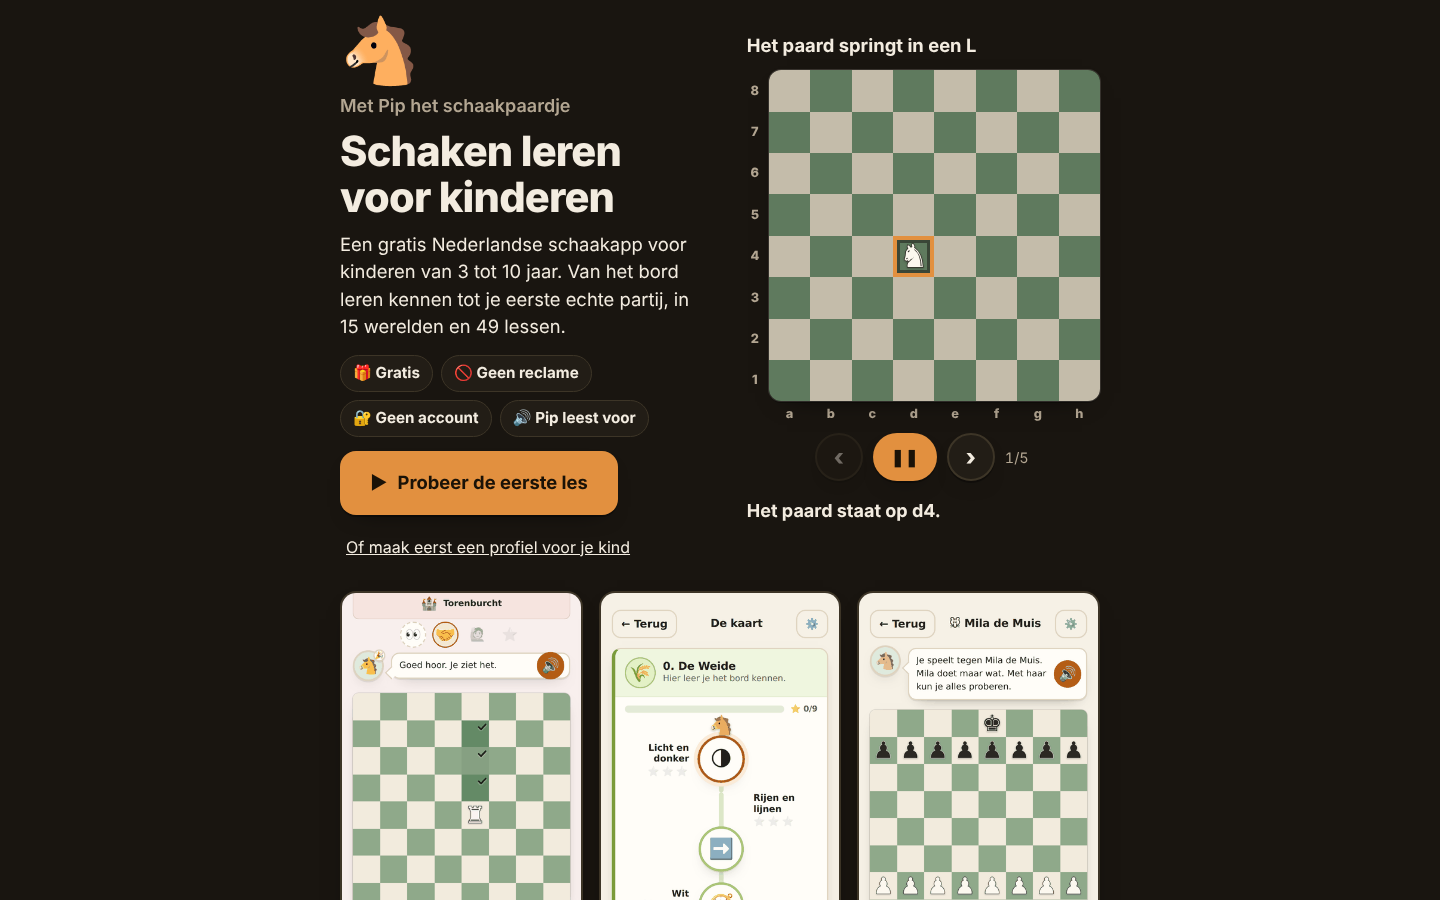
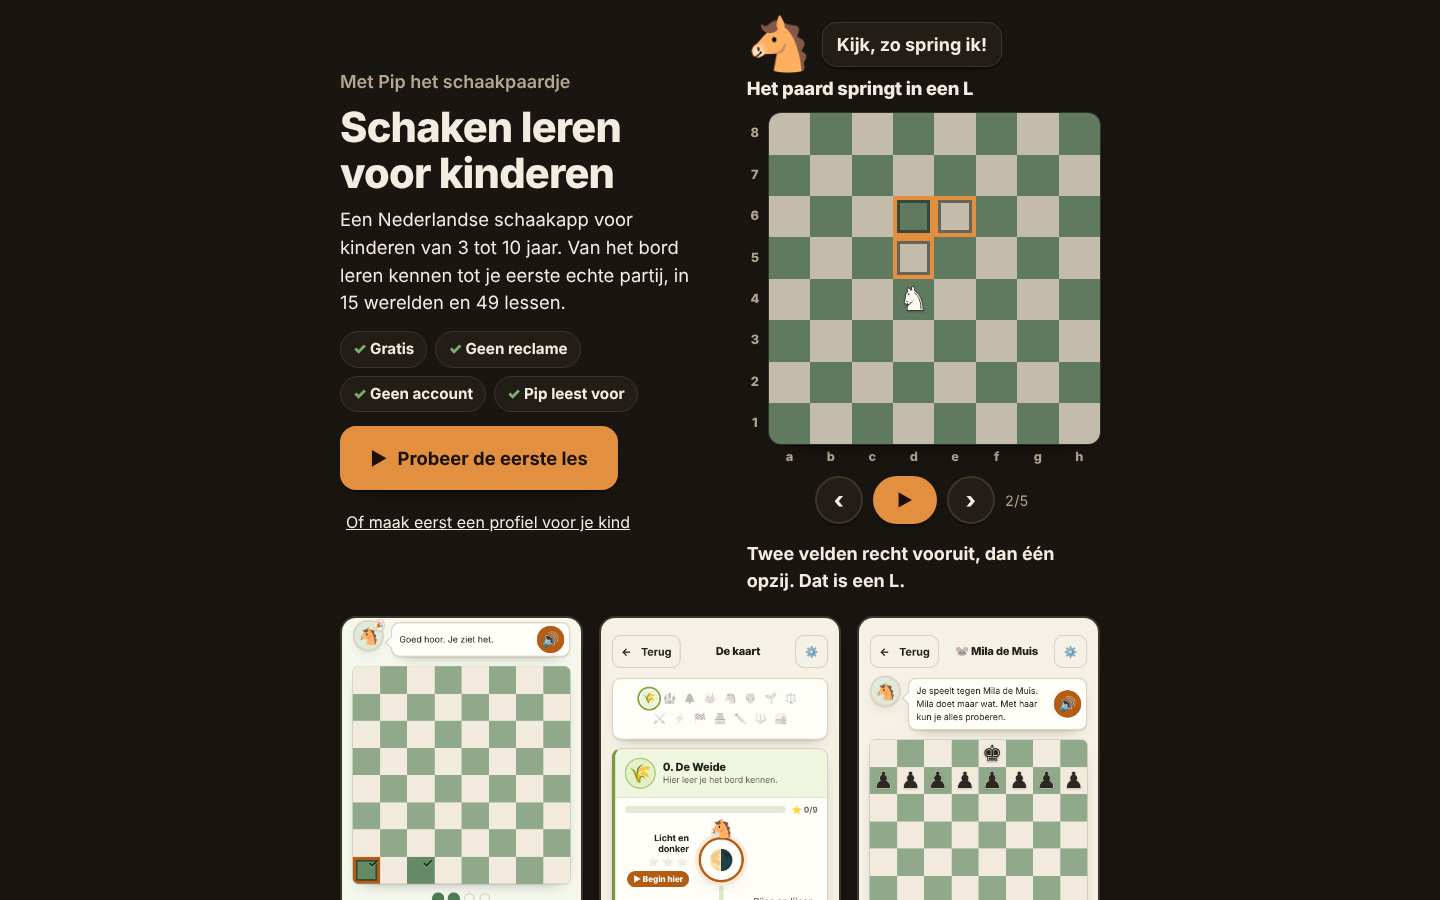
Startpagina na 31e review: bord begint bij de L, Pip spreekt bij het bord, verse schermafbeeldingen
Nieuw scripts/schermen.mjs neemt public/schermen op van de gebouwde app;
og.png en og-vierkant.png opnieuw gemaakt.

Changed region(s): [[0.2188, 0.0, 0.7812, 1.0], [0.2188, 0.0, 0.4688, 0.6222]]

diff --git a/src/app/Welkom.tsx b/src/app/Welkom.tsx
@@ -66,23 +66,25 @@ export function Welkom() {
           de belofte als vier labels in plaats van in een zin onderaan de pagina. */}
       <div className={styles.held}>
       <header className={`stack ${styles.heldTekst}`}>
-        <span aria-hidden="true" className={styles.pip}>
-          🐴
-        </span>
         {/* De kop draagt de zoekterm ("schaken leren voor kinderen"); op "Pip" zoekt
             niemand. clamp, want op een smalle telefoon raakte de kop de rand. */}
         <p className="muted" style={{ margin: 0, fontWeight: 600 }}>Met Pip het schaakpaardje</p>
         <h1 className={styles.kop}>Schaken leren voor kinderen</h1>
         <p style={{ fontSize: '1.15rem', margin: 0, maxWidth: 460 }}>
-          Een gratis Nederlandse schaakapp voor kinderen van 3 tot 10 jaar. Van het bord
+          Een Nederlandse schaakapp voor kinderen van 3 tot 10 jaar. Van het bord
           leren kennen tot je eerste echte partij, in {werelden} werelden en {lessen}{' '}
           lessen.
         </p>
         <ul className={styles.beloftes} aria-label="Wat je krijgt">
-          <li>🎁 Gratis</li>
-          <li>🚫 Geen reclame</li>
-          <li>🔐 Geen account</li>
-          <li>🔊 Pip leest voor</li>
+          {/* Een vinkje in plaats van 🚫 en 🔐: die lazen als "verboden" en "slot". */}
+          {['Gratis', 'Geen reclame', 'Geen account', 'Pip leest voor'].map((b) => (
+            <li key={b}>
+              <span aria-hidden="true" className={styles.vink}>
+                ✓
+              </span>{' '}
+              {b}
+            </li>
+          ))}
         </ul>
         {/* Meteen spelen, zonder formulier. Op 45 bezoeken van de startpagina begonnen
             er 24 aan een les: de weg liep via een sprong van 2500 px naar een formulier
@@ -98,6 +100,14 @@ export function Welkom() {
         </a>
       </header>
       <div className={styles.heldBord}>
+        {/* Pip bij het bord, sprekend: een figuur die je iets leert, niet een los kopje
+            boven de tekst (31e review). */}
+        <p className={styles.heldPip}>
+          <span aria-hidden="true" className={`${styles.heldPipGezicht} ${styles.pip}`}>
+            🐴
+          </span>
+          <span className={styles.heldBallon}>Kijk, zo spring ik!</span>
+        </p>
         <Animatiebord
           id="welkom-paard"
           titel="Het paard springt in een L"
@@ -105,6 +115,7 @@ export function Welkom() {
           beelden={bouwBeelden(paard)}
           kort
           kopNiveau={2}
+          beginStap={1}
         />
       </div>
       </div>
@@ -156,8 +167,8 @@ export function Welkom() {
           Kinderen leren schaken het best met één stuk tegelijk. Daarom begint Schaakmaatje
           bij het bord, en krijgt daarna elk stuk een eigen wereld: eerst de toren en de
           loper, dan de dame, het paard, de koning en de pion. Pas als alle stukken zitten,
-          komen schaak, mat en rokade. Het paard dat bovenaan springt, krijgt zijn
-          eigen wereld.
+          komen schaak, mat en rokade. Ook het paard dat bovenaan springt, krijgt zijn
+          eigen wereld, na de dame.
         </p>
         <p style={{ margin: 0 }}>
           Alle schaakregels staan zo op een bewegend bord, om zelf even op te frissen of

diff --git a/src/uitleg/Animatiebord.tsx b/src/uitleg/Animatiebord.tsx
@@ -34,6 +34,7 @@ export function Animatiebord({
   beelden,
   kort,
   kopNiveau = 3,
+  beginStap = 0,
 }: {
   id: string
   titel: string
@@ -42,12 +43,18 @@ export function Animatiebord({
   /** Op de startpagina staat het bord direct onder de h1; dan is het een h2. */
   kopNiveau?: 2 | 3
   /**
+   * Bij welke stap het stilstaande bord begint. Op de startpagina stap 1 (de L
+   * gemarkeerd): stap 0 was één paard op een leeg bord, en een screenshot daarvan
+   * zei niets (31e review).
+   */
+  beginStap?: number
+  /**
    * Alleen de zin van nu onder het bord, geen hele stappenlijst. Voor de startpagina,
    * waar het bord een voorproefje is en het aanmeldformulier niet ver weg mag raken.
    */
   kort?: boolean
 }) {
-  const [stap, setStap] = useState(0)
+  const [stap, setStap] = useState(beginStap)
   const [speelt, setSpeelt] = useState(false)
   const [inBeeld, setInBeeld] = useState(false)
   /** Bij het terugspringen naar het begin glijden de stukken niet terug, ze staan er gewoon. */
@@ -159,17 +166,12 @@ export function Animatiebord({
     setMelding(`Stap ${naar + 1} van ${beelden.length}: ${beelden[naar].tekst}`)
   }
 
+  const Kop = kopNiveau === 2 ? 'h2' : 'h3'
   return (
     <figure className={s.figuur} id={id} aria-labelledby={`${id}-kop`}>
-      {kopNiveau === 2 ? (
-        <h2 id={`${id}-kop`} className={s.kop}>
-          {titel}
-        </h2>
-      ) : (
-        <h3 id={`${id}-kop`} className={s.kop}>
-          {titel}
-        </h3>
-      )}
+      <Kop id={`${id}-kop`} className={s.kop}>
+        {titel}
+      </Kop>
       <div className={s.opstelling}>
         <div className={s.bordkant}>
           {/* De coördinaten staan naast het bord in plaats van in de hoek van een veld:

diff --git a/src/app/Welkom.module.css b/src/app/Welkom.module.css
@@ -138,3 +138,10 @@
   .heldBord { max-width: none; }
 }
 @media (prefers-reduced-motion: reduce) { .pip { animation: none; } }
+.vink { color: var(--grass); font-weight: 900; }
+.heldPip { display: flex; align-items: center; gap: 10px; margin: 0 0 8px; }
+.heldPip .heldPipGezicht { font-size: 52px; }
+.heldBallon {
+  position: relative; padding: 8px 14px; border-radius: 14px; font-weight: 700;
+  background: var(--surface); border: 1px solid var(--line); box-shadow: var(--shadow);
+}

diff --git a/docs/reviews/2026-11-03-eenendertigste-review.md b/docs/reviews/2026-11-03-eenendertigste-review.md
@@ -1,0 +1,50 @@
+# Eenendertigste review: de startpagina (2026-11-03)
+
+Fase: "volgende niveau", ronde 6. Wat er nieuw is:
+- een held met het bewegende paardbord naast de kop (op de telefoon eronder);
+- de beloftes als vier labels;
+- Pip die bij het bord zwaait en spreekt.
+
+De reviewers zijn rechtstreeks gestart.
+
+**Oordeel na verwerking: GO voor deze fase.** Er is niets blokkerends. `check` en `doorloop` zijn groen. Lighthouse op mobiel geeft 99 / 95 / 96 / 100, met LCP 2,0 s en CLS 0. Toegankelijkheid scoort 95 alleen door de bewuste `maximum-scale`; de kopvolgorde is opgelost.
+
+## Schaakmeester
+- De animatie klopt. d4-e6 is een L, en vanaf e6 zijn er acht sprongen. De kleurregel klopt ook, en wit staat onder.
+- Het paard als eerste beeld is in orde: de startpagina is een etalage, en de leerweg blijft toren → … → pion.
+- **Klein: de zin "Het paard dat bovenaan springt…" voegde weinig toe.** *Opgelost:* "Ook het paard dat bovenaan springt, krijgt zijn eigen wereld, na de dame."
+- **Klein: de laatste stap koppelt de kleurregel aan een nieuwe sprong.** *Niet aangepast:* dit is content van de schaakregelpagina, en de schaakmeester zegt zelf "laat het zo".
+
+## Layout
+- **Belangrijk: op een stilstaand beeld was het bord leeg** (stap 1/5: alleen een paard op d4). *Opgelost:* het bord kreeg een nieuwe prop `beginStap` en begint nu bij de L-markering, zodat ook een screenshot het verhaal vertelt.
+- **Belangrijk: Pip was een los kopje dat niets deed.** *Opgelost:* het kopje is weg. Pip staat nu bij het bord met de ballon "Kijk, zo spring ik!" en zwaait daar.
+- **Belangrijk (conversie, punt 1): op de telefoon stond geen bordveld boven de vouw.** *Opgelost* doordat de alinea korter is en het kopje weg is. Op 390×844 staan het paard en de L nu in het eerste scherm.
+- **Belangrijk: verouderde schermafbeeldingen** (het speldje van Pip over zijn gezicht). *Opgelost:* er is een nieuw script `scripts/schermen.mjs` dat ze op de gebouwde app opneemt. `og.png` en `og-vierkant.png` zijn daarna opnieuw gemaakt met `deelbeeld.mjs`.
+- **Klein: 🚫 en 🔐 lazen streng.** *Opgelost:* er staat nu een groen vinkje (aria-hidden).
+- **Klein: de profiellink stond een paar pixels verschoven.** *Niet opgelost:* dat komt door de padding die de link als raakvlak nodig heeft (48 px). Het verschil is 6 px.
+- **Klein: "Het paard staat op d4." stond vet onder het bord.** *Vervallen:* het bord begint nu bij stap 2, met een andere zin. Het lettergewicht is van het Animatiebord, dat ook op de schaakregelpagina's staat.
+
+## Conversie
+- De CTA staat ruim boven de vouw en gaat met 1 tik naar de eerste opgave. SEO is in orde: de h1 bevat de zoekterm en de held staat in de gebouwde HTML.
+- **Klein: de belofte stond twee keer** ("Een gratis…" en het label "Gratis"). *Opgelost:* het woord "gratis" is uit de alinea gehaald. De metabeschrijving noemt het nog wel.
+- **Klein: de emoji lazen streng.** *Opgelost,* zie Layout.
+- **Klein: geen extra telling.** *Eens:* "Les begonnen" ten opzichte van de bezoeken aan de startpagina is genoeg.
+- **Naar een 9: een tikbaar paard in de held.** *Niet in deze fase:* het staat op het scorebord.
+
+## Codebase
+- De held staat in `out/index.html` en het id is uniek.
+- **Klein: emoji niet aria-hidden.** *Opgelost:* de vinkjes zijn aria-hidden.
+- **Klein: gekopieerde h2- en h3-tak.** *Opgelost* met `const Kop = kopNiveau === 2 ? 'h2' : 'h3'`.
+- **Klein: inspringen.** *Niet opgelost:* het is cosmetisch, en de repo heeft geen Prettier in `check`.
+
+## Bijvangst
+- **De console-404 van `/sfx/manifest.json` (uit de nulmeting) is lokaal en bewust.** `hosting-klaar` haalt een leeg manifest weg zodat de opnames op de server niet overschreven worden. Op schaakmaatje.nl bestaat het manifest. Er is niets veranderd.
+
+## Wow: startpagina
+| layout | conversie | vorige ronde (27e) |
+|---|---|---|
+| 7 | 8 | 6 / 7 |
+
+De cijfers zijn gegeven vóór de verwerking (leeg bord, los kopje). Naar een 9:
+- een tikbaar paard in de held ("tik waar het paard heen mag" → les);
+- een echt kindmoment in beeld, zoals een ster of de ballon.

diff --git a/docs/volgende-niveau.md b/docs/volgende-niveau.md
@@ -17,17 +17,17 @@ Schermafbeeldingen: `docs/volgende-niveau/voor-*.png`.
 |---|---|---|
 | Geen horizontaal scrollen (10 formaten, licht+donker) | start en eerste les: nergens | 🟢 |
 | Bord past zonder scrollen | ronde 2: staand ja; liggend 1024×768, 1180×820, 1440×900, 844×390 bord én pagina passen (velden 64/70/70/47 px). Open: 667×375 velden 36 px; staande telefoon scrolt onder het bord (knoppen) | 🟢 (bewaakt in doorloop) |
-| Raakvlakken ≥ 48 px | ook: kopknoppen 44 px, fasebalk/voortgangsrondjes klein (27e review L4). 18 links op de startpagina kleiner (stukkenlinks, voettekst, "Of maak eerst een profiel", 🔊). Les-knoppen ok | 🔴 |
+| Raakvlakken ≥ 48 px | (volgende ronde) ook: kopknoppen 44 px, fasebalk/voortgangsrondjes klein (27e review L4). 18 links op de startpagina kleiner (stukkenlinks, voettekst, "Of maak eerst een profiel", 🔊). Les-knoppen ok | 🔴 |
 | Lighthouse Performance ≥ 90 | 98 | 🟢 |
 | Lighthouse Toegankelijkheid 100 | 95; enige afwijking is `meta-viewport`, bewust (zie besluiten) | 🟢 |
-| Lighthouse Best Practices ≥ 95 | 96 (wel console-404 op `/sfx/manifest.json`) | 🟢 |
+| Lighthouse Best Practices ≥ 95 | 96. De console-404 op `/sfx/manifest.json` is lokaal en bewust (hosting-klaar); live bestaat het manifest | 🟢 |
 | Lighthouse SEO 100 | 100 | 🟢 |
 | LCP < 2,5 s / CLS < 0,05 | 2,1 s / 0 | 🟢 |
 | Eerste les ≤ 2 tikken, ≤ 15 s | 1 tik, 1,4 s | 🟢 |
 | Tik-reactie < 100 ms | nog niet gemeten | ⚪ |
 | Beloningsmoment per wereld | ronde 3: eigen held-kaart (wapen 128 px, confetti, wapenrij), diploma-voorproef | 🟢 (wow nog te meten) |
 | `prefers-reduced-motion` | nieuwe animaties (golf, vonk, wapen) bewaakt in doorloop, aan én uit; oudere nog niet allemaal nagelopen | 🟡 |
-| Wow-toets ≥ 9 (4 schermen, 2 reviewers) | ronde 5: kaart 6,5/7,5. ronde 4: eerste les 7/7. ronde 3: wereld af 5/7, diploma 7,5/8 (vóór verbouwing). ronde 2: start 6/7, les 6,5/6, diploma 3/–, kaart 5/6,5 (zie 27e review) | 🔴 |
+| Wow-toets ≥ 9 (4 schermen, 2 reviewers) | ronde 6: start 7/8. ronde 5: kaart 6,5/7,5. ronde 4: eerste les 7/7. ronde 3: wereld af 5/7, diploma 7,5/8 (vóór verbouwing). ronde 2: start 6/7, les 6,5/6, diploma 3/–, kaart 5/6,5 (zie 27e review) | 🔴 |
 | OG-afbeelding per pagina | één algemene `og.png` voor alle pagina's | 🔴 |
 | Deelknop op trotse momenten | ronde 3: op wereld af en diploma, alleen link + vaste zin, anonieme telling `Gedeeld`; doorloop bewaakt share én kopieer zonder naam | 🟢 |
 | Installeerbaar | manifest + service worker aanwezig | 🟢 |
@@ -40,7 +40,7 @@ Schermafbeeldingen: `docs/volgende-niveau/voor-*.png`.
 Gedaan: bord liggend (r2), trots moment + delen (r3), eerste les levendiger (r4), wereldkaart (r5).
 
 1. ~~Wereldkaart~~ (r5). Rest: één doorlopend landschap met slingerpad, Pip stuitert op de halte, alles-af-toestand.
-2. **Startpagina-held**: bewegende Pip + bord, de belofte groot ("Gratis. Geen reclame. Geen account.").
+2. ~~Startpagina-held~~ (r6). Rest: tikbaar paard in de held.
 3. **Raakvlakken**: kopknoppen 44 → 48/64 px, fasebalk/voortgangsrondjes, startpagina-links, en de sfx-404.
 4. **Wereld 0–2 offline voorladen.**
 5. **OG per pagina.**
@@ -53,3 +53,4 @@ Gedaan: bord liggend (r2), trots moment + delen (r3), eerste les levendiger (r4)
 - Ronde 3: trots moment — deelknop (link + vaste zin, telling), diploma-voorproef met wereldwapens, wereld af als held. 28e review verwerkt. Pip-zin 'Hoefijzer verdiend' weg (klopte niet na wereld 1).
 - Ronde 4: eerste les levendiger — bord rolt in een golf binnen bij de eerste zin, goed veld veert op met een vonkje, Pip groot op liggende schermen. Reduced-motion bewaakt in doorloop.
 - Ronde 5: wereldkaart — reis-strook, heuvels, tegels 'Nog te ontdekken' (tik geeft antwoord), afgeronde werelden inklapbaar (64 px), 'Begin hier', scroll naar Pip (bewezen in doorloop).
+- Ronde 6: startpagina — held met paardbord (begint bij de L), Pip met ballon bij het bord, beloftes als labels, verse schermafbeeldingen en deelkaart (scripts/schermen.mjs).
